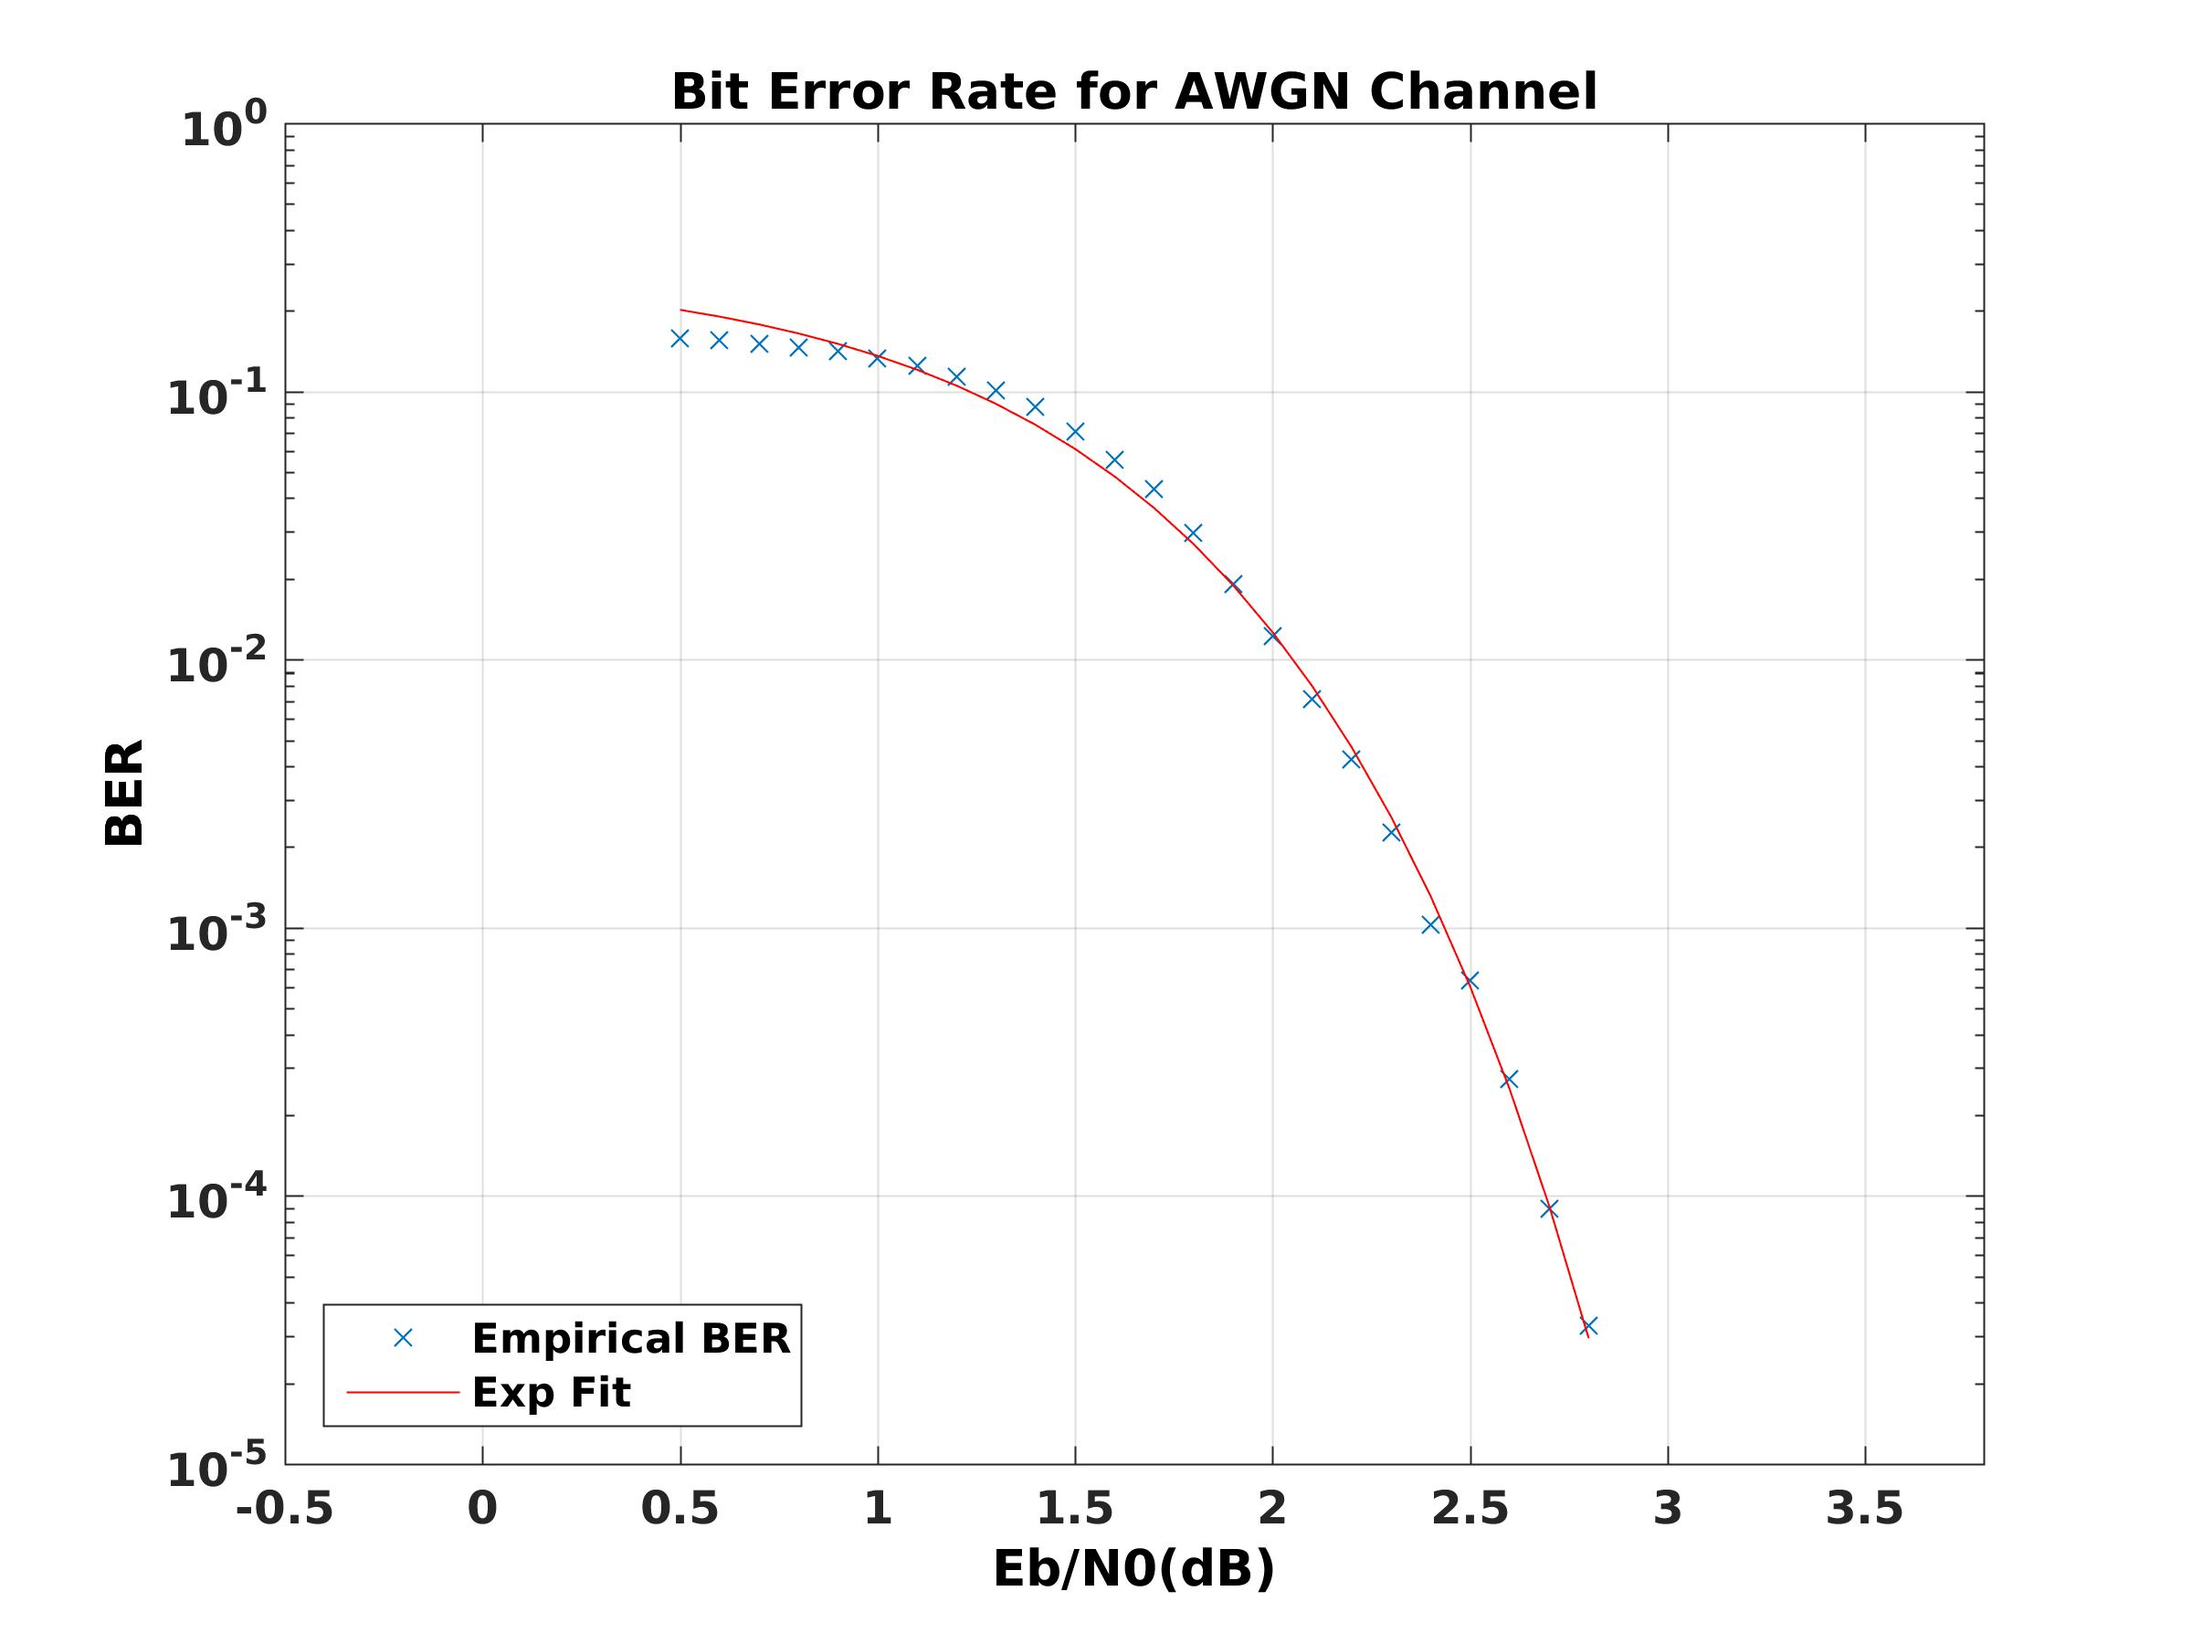
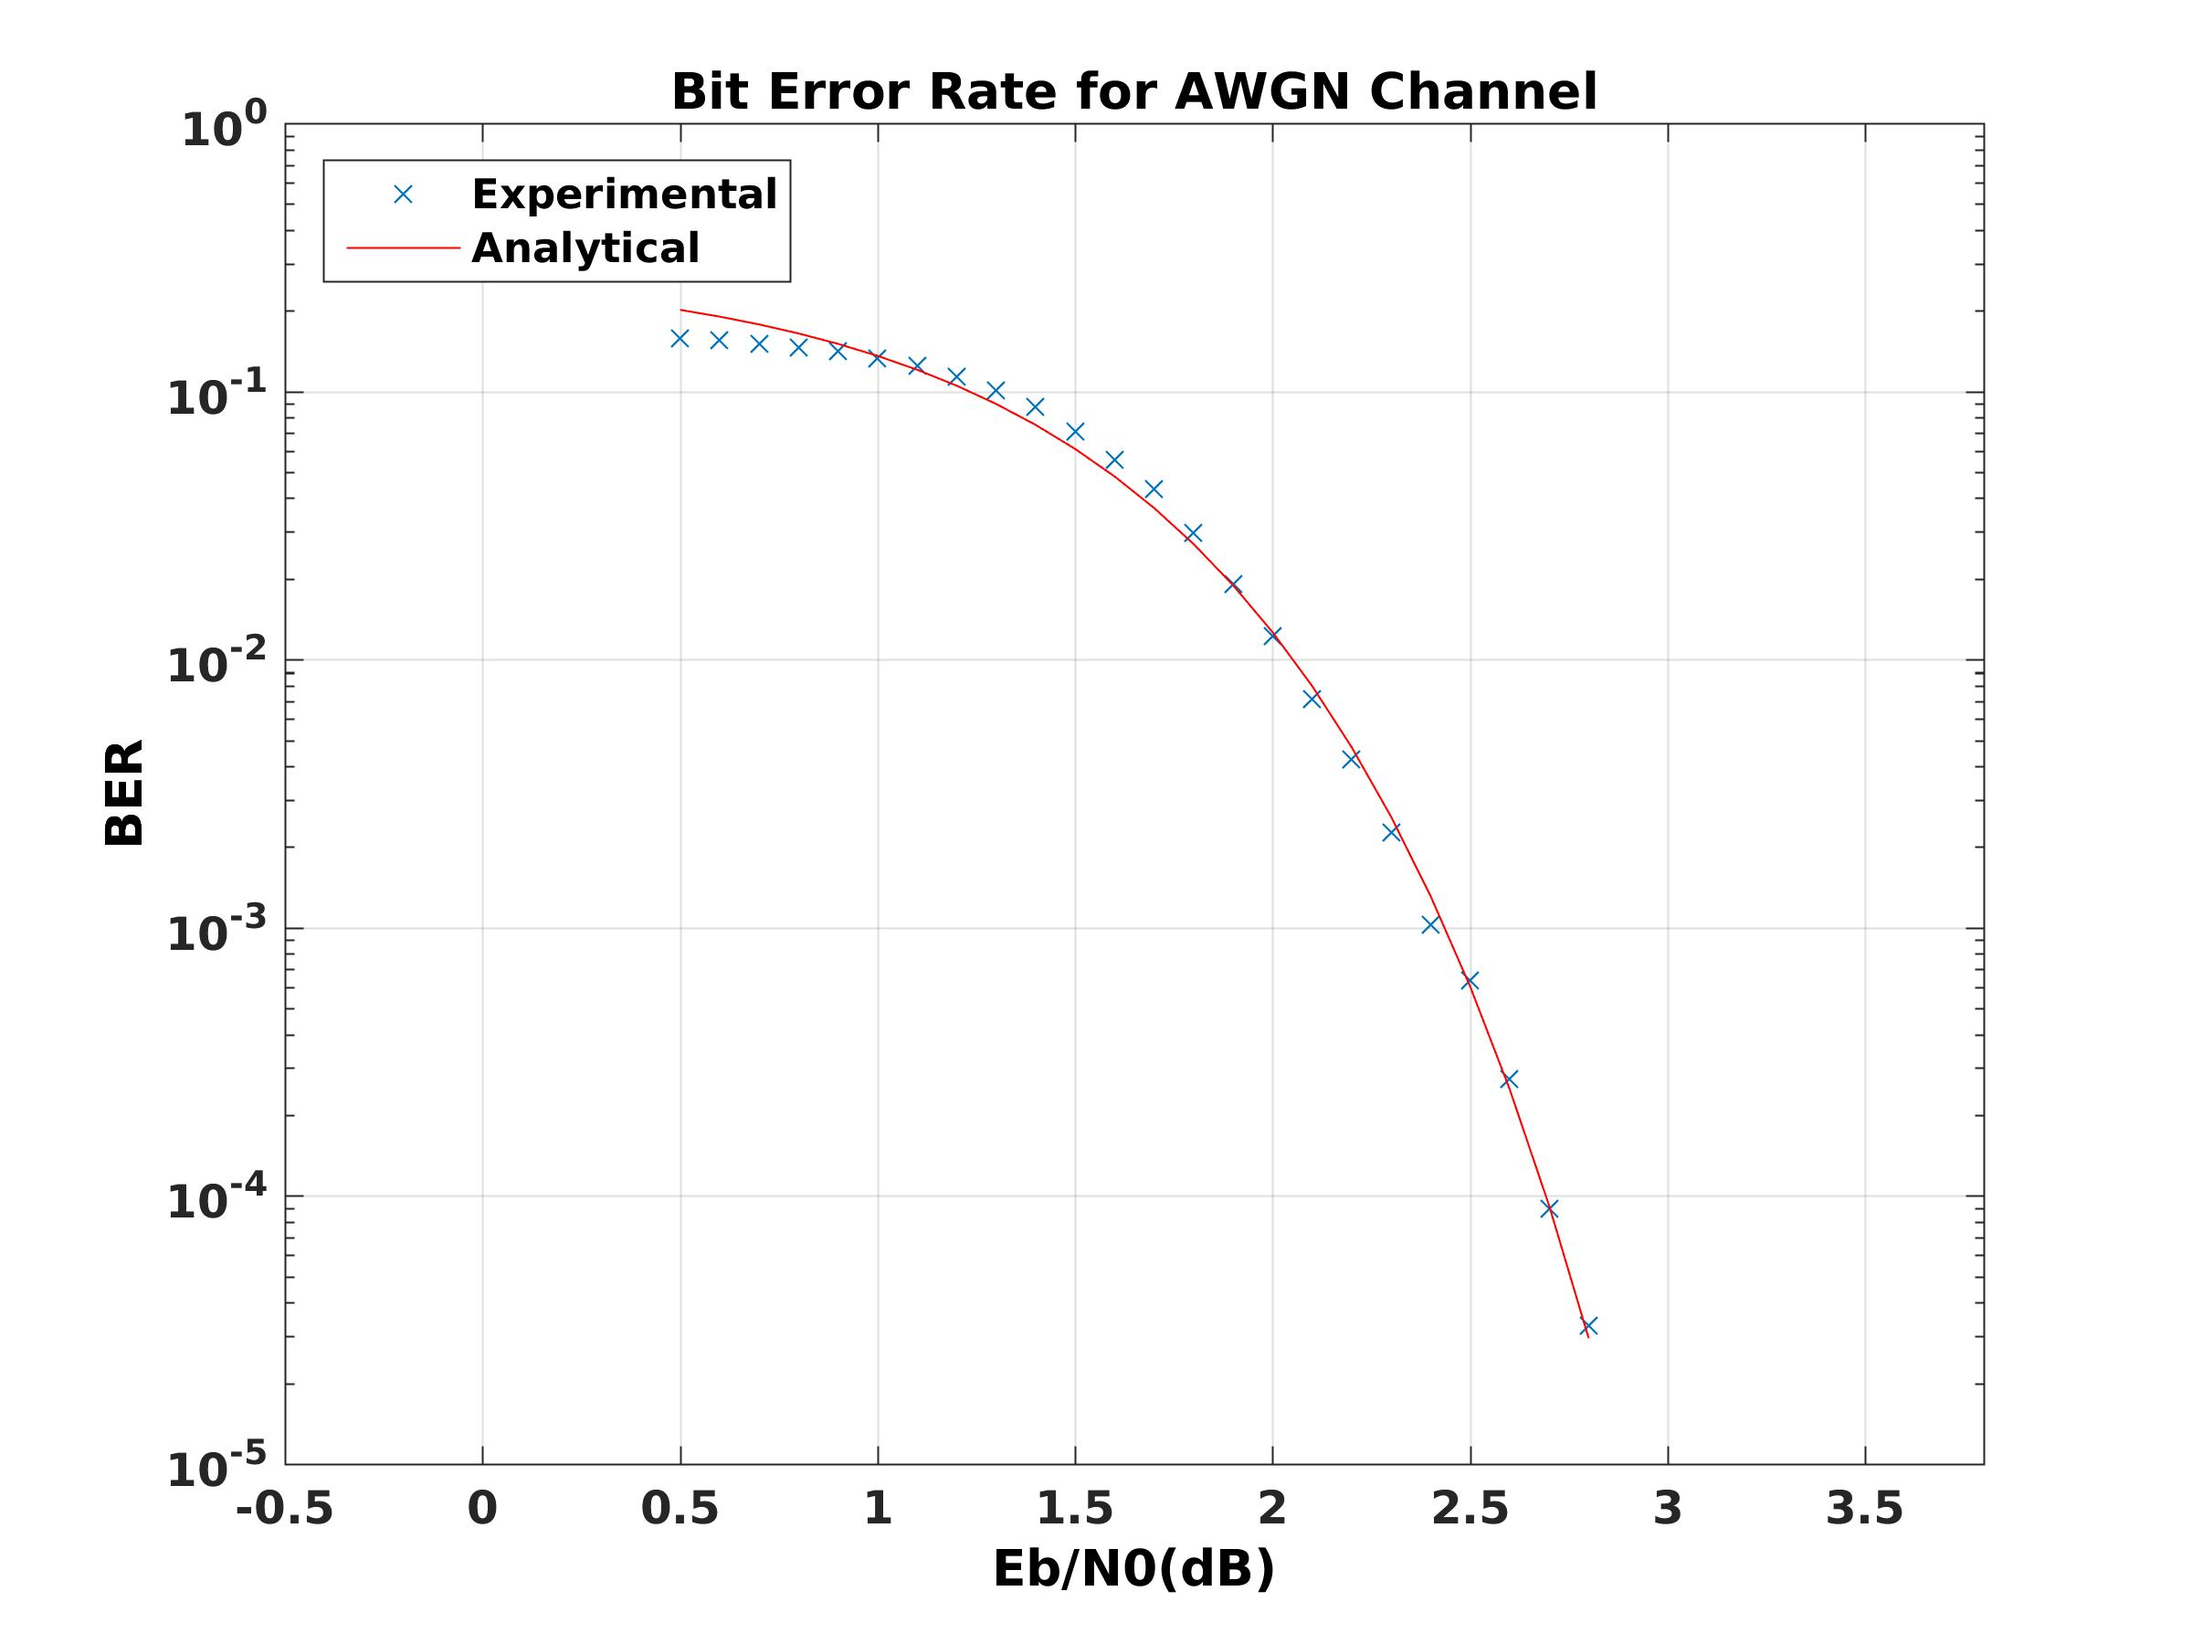
add legend to BER plot

Changed region(s): [[0.2188, 0.0933, 0.375, 0.1867], [0.1562, 0.7778, 0.375, 0.8711], [0.1562, 0.0933, 0.1875, 0.1244]]

diff --git a/matlab/ber.m b/matlab/ber.m
@@ -8,7 +8,7 @@ error=[1.582e-1 1.550e-1 1.509e-1 1.462e-1 1.416e-1 1.328e-1 1.248e-1 1.134e-1 .
 berfit(snr,error);
 ylabel('BER','FontSize',12,'FontWeight','bold','Color','k');
 xlabel('Eb/N0(dB)','FontSize',12,'FontWeight','bold','Color','k');
-% legend('1-Thread', '3-Threads','Location','northwest');
+legend('Experimental', 'Analytical','Location','northwest');
 title('Bit Error Rate for AWGN Channel','fontsize', 12, 'FontWeight','bold');
 grid on
 set(gca, 'fontsize', 12, 'FontWeight','bold');
